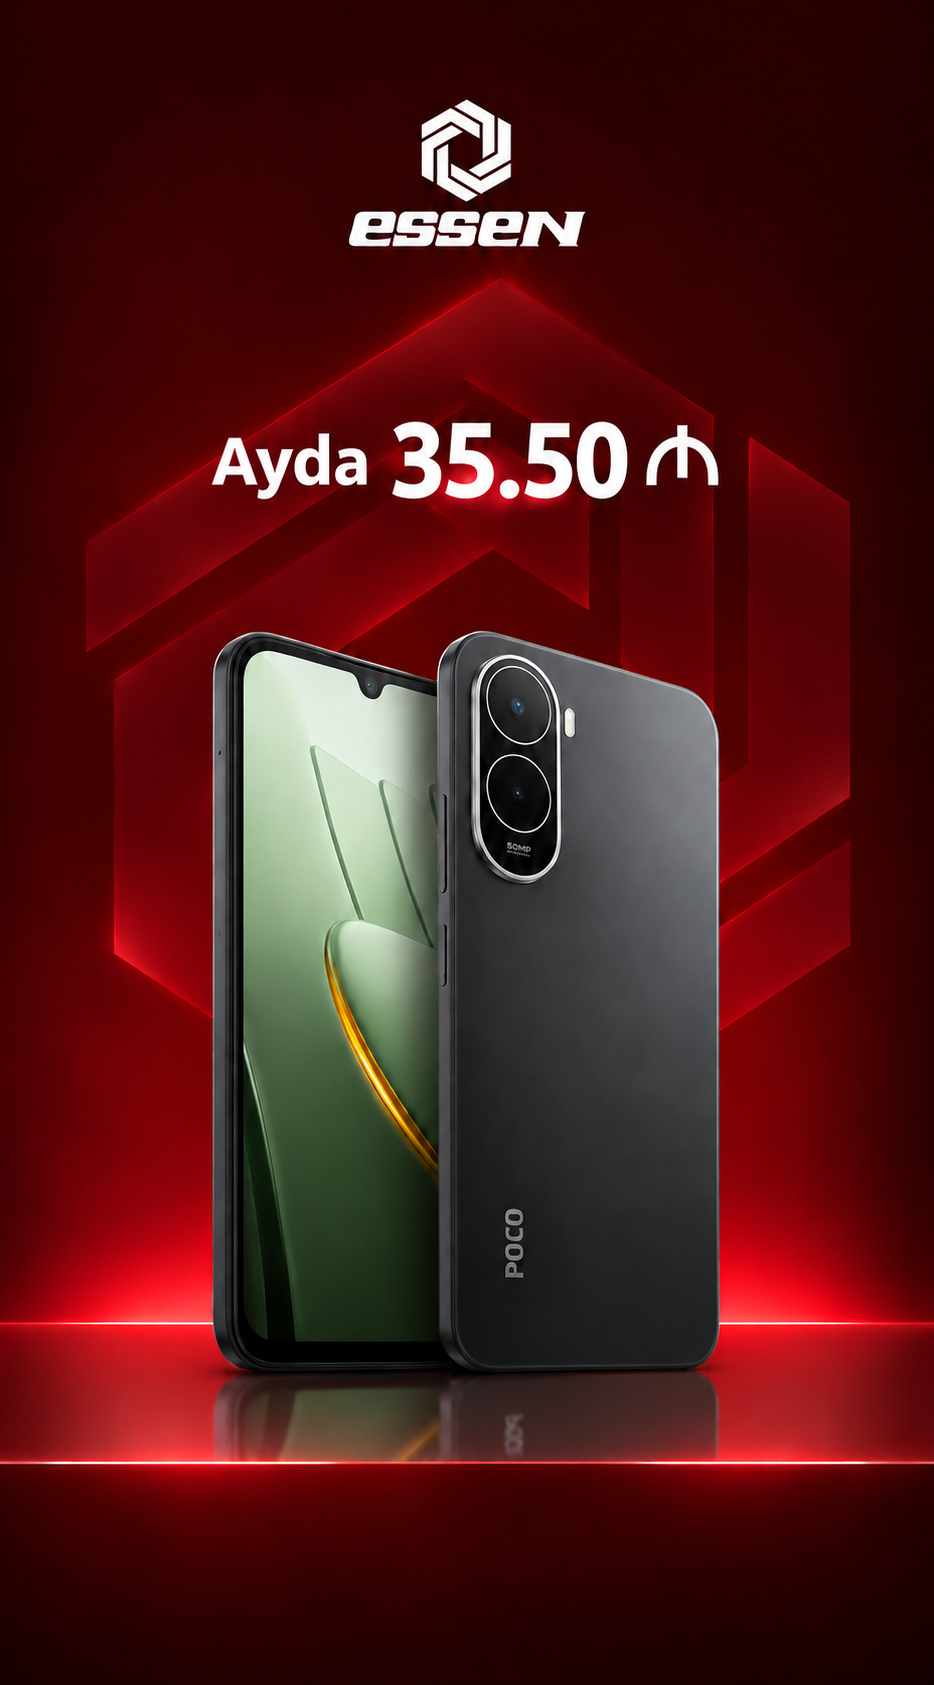
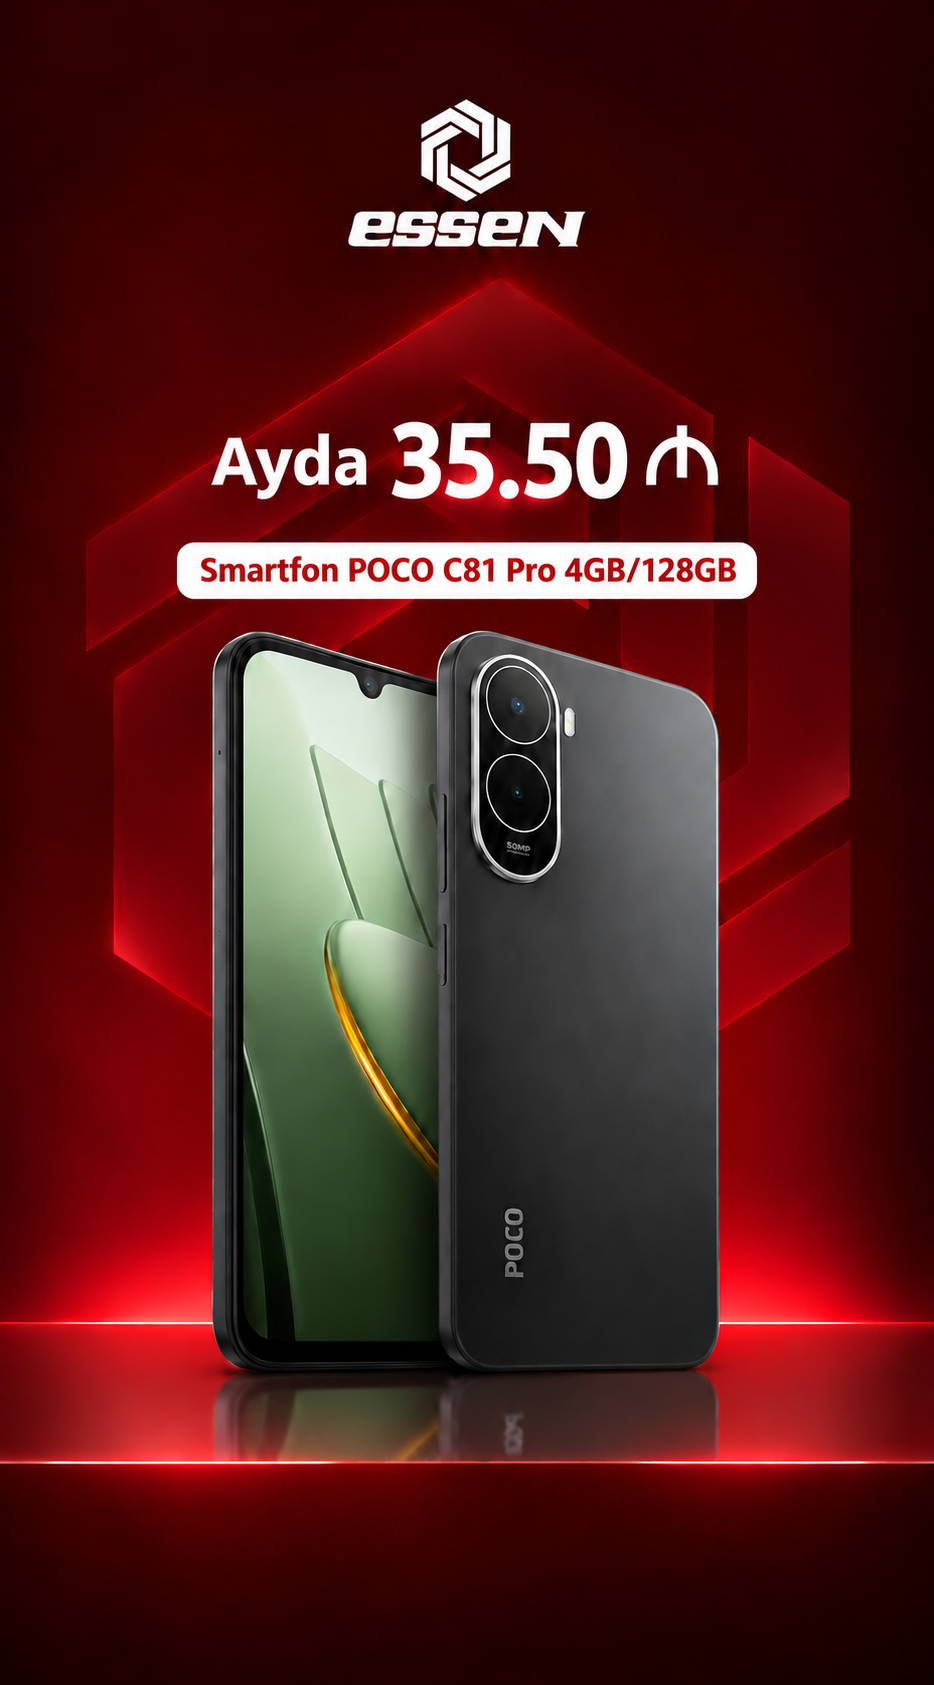
Use updated POCO C81 Pro poster with model label

diff --git a/frontend/index.html b/frontend/index.html
@@ -715,7 +715,7 @@
         <div class="swiper-slide"><img src="img/promotions/tcl-55p7l-sale.png" alt="TCL 55P7L televizoru — 994,99 ₼" width="946" height="1662" draggable="false"></div>
         <div class="swiper-slide"><img src="img/promotions/lg-l9c1107pbgc-sale.png" alt="LG L9C1107PBGC.APBPMER paltaryuyan və qurudan maşın — 1499,99 ₼" width="934" height="1684" draggable="false"></div>
         <div class="swiper-slide"><img src="img/promotions/lenovo-ideapad-3-sale.png" alt="Lenovo IdeaPad 3 15ITL6 (82H801QYRK) notbuku — 999,99 ₼" width="946" height="1662" draggable="false"></div>
-        <div class="swiper-slide"><img src="img/promotions/poco-monthly-offer.png" alt="POCO smartfonu — ayda 35.50 ₼" width="934" height="1685" draggable="false"></div>
+        <div class="swiper-slide"><img src="img/promotions/poco-monthly-offer.png?v=4b756d82f49e" alt="POCO C81 Pro 4GB/128GB smartfonu — ayda 35.50 ₼" width="934" height="1685" draggable="false"></div>
       </div>
       <button type="button" class="campaign-prev absolute left-2 top-1/2 z-10 h-9 w-9 -translate-y-1/2 rounded-full border border-gray-200 bg-white shadow" aria-label="Əvvəlki poster">←</button>
       <button type="button" class="campaign-next absolute right-2 top-1/2 z-10 h-9 w-9 -translate-y-1/2 rounded-full border border-gray-200 bg-white shadow" aria-label="Növbəti poster">→</button>
